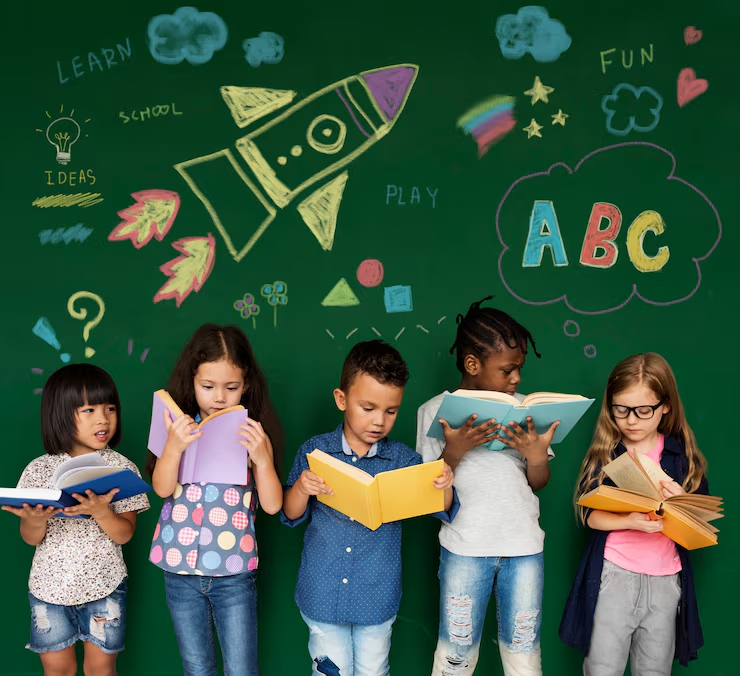
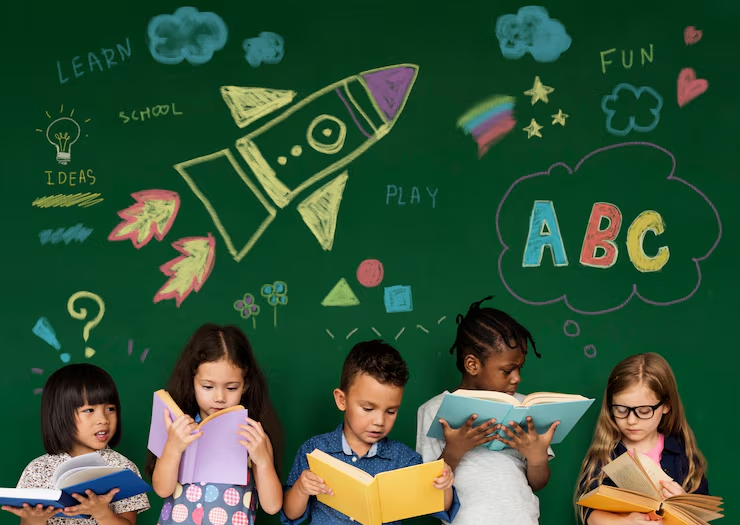
Crop children reading illustration from bottom up to rightmost girl's hands/book to reduce card height

diff --git a/app/page.js b/app/page.js
@@ -235,7 +235,7 @@ export default function HomePage() {
               {/* Top Section: Full Clean Image */}
               <div className="cause-image-wrapper">
                 <img
-                  src="/children_reading.png"
+                  src="/children_reading.png?v=2"
                   alt="Children reading books with big dreams"
                   className="cause-story-photo"
                 />
